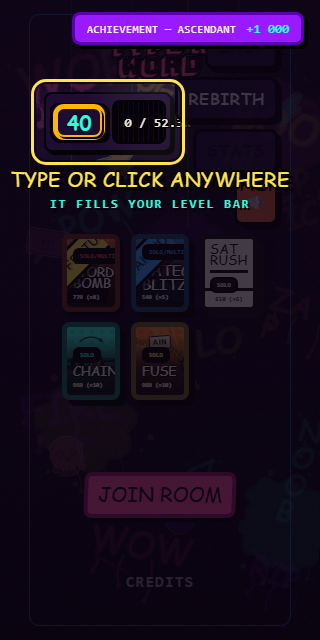
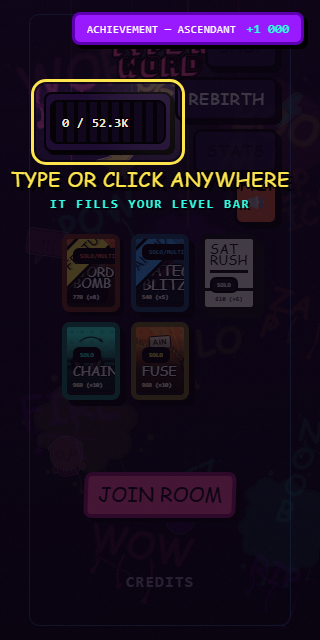
fix(xp-bar): below 380px the track takes the whole bar
Andy's ruling. At a 320 viewport the menu stage is a framed card 262px wide and
the corner nav takes 103px of it, leaving 131px of clear width. Batch F had
trimmed the level block's chrome to buy the track back up to ~54px; this stops
splitting 131px two ways and gives the progress bar all of it. The nav's width
is deliberately untouched.

  320: track 54 -> 116px   360: -> 156px   390: unchanged (chip kept, track 124)

Scoped to 380px so it catches 320 and 360 (both gate viewports) and leaves 390
alone, where the chip and a 124px track coexist comfortably. All three clear the
nav's left edge by 3px.

ONE THING WORTH KNOWING, since the ruling's rationale was that "the level number
already appears on the card below": it does not, for an unlocked card. GameCard
renders a per-mode MASTERY chip (M2/M3, and only once mastery >= 2) and a
"YOU'RE LV n" line that shows only while a card is LOCKED. Neither is the
account level. So below 380px the level numeral now has no home on the menu at
all. The readout inside the track ("0 / 52.3K") still carries the progress,
which is what the bar is for, and the level is still on the STATS screen — but
if the intent was that it stay visible somewhere on the menu, it currently
doesn't at these widths.

Changed region(s): [[0.1562, 0.1562, 0.4062, 0.2188], [0.4375, 0.1875, 0.5625, 0.2188]]

diff --git a/src/components/MenuXp.css b/src/components/MenuXp.css
@@ -923,3 +923,25 @@ button.menu-mark:active {
     padding: 2px 4px;
   }
 }
+
+/* NARROWEST PHONES: THE TRACK TAKES THE WHOLE BAR (Andy's ruling, 2026-09-16).
+   At 320 the menu stage is a framed card only 262px wide and the corner nav occupies 103px of it,
+   leaving 131px of clear width. Batch F had trimmed the level block's chrome to buy the track back
+   up to ~54px; the ruling is to stop splitting 131px two ways and give the progress bar all of it.
+   The nav's width is deliberately NOT touched.
+   Scoped to 380px so it catches 320 and 360 (both gate viewports) and leaves 390 alone, where the
+   chip and a 124px track coexist comfortably.
+   WORTH KNOWING: this removes the account level from the menu at these widths entirely. The mode
+   cards carry a per-mode MASTERY chip (M2/M3) and a "YOU'RE LV n" line only while a card is LOCKED
+   — neither is the account level on an unlocked card — so below 380px the level numeral has no
+   other home on this screen. The readout inside the track ("0 / 52.3K") still carries the progress,
+   which is what the bar is for. */
+@media (max-width: 380px) {
+  .menu-xp-bar.is-loud > .menu-xp-lvblock {
+    display: none;
+  }
+  .menu-xp-bar.is-loud {
+    /* Nothing left to sit beside, so the gutter is the only thing holding the track off the nav. */
+    gap: 0;
+  }
+}

diff --git a/claude/shots/kb/menu/320x640-rest.md b/claude/shots/kb/menu/320x640-rest.md
@@ -2,4 +2,4 @@
 viewport 320x640  keyboard-line none  focusable-input false
 
 
-13 elements, 0 flagged
+12 elements, 0 flagged
